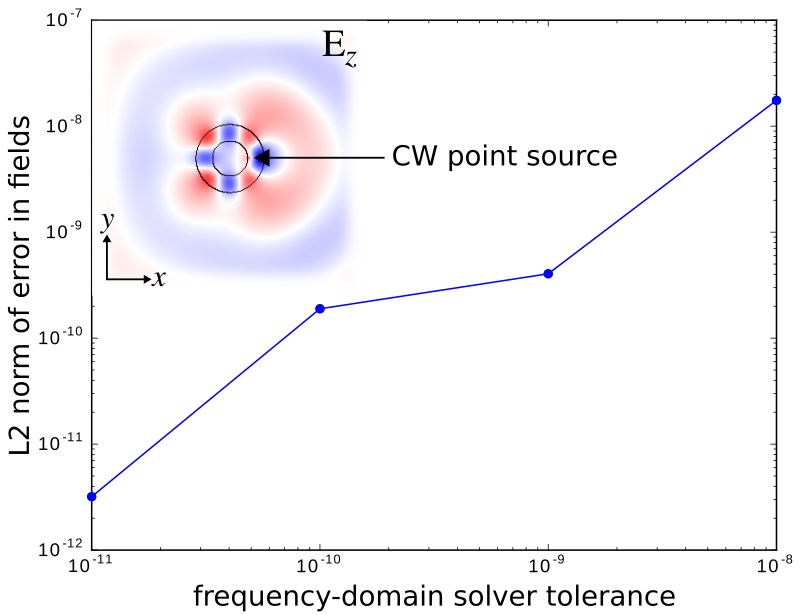
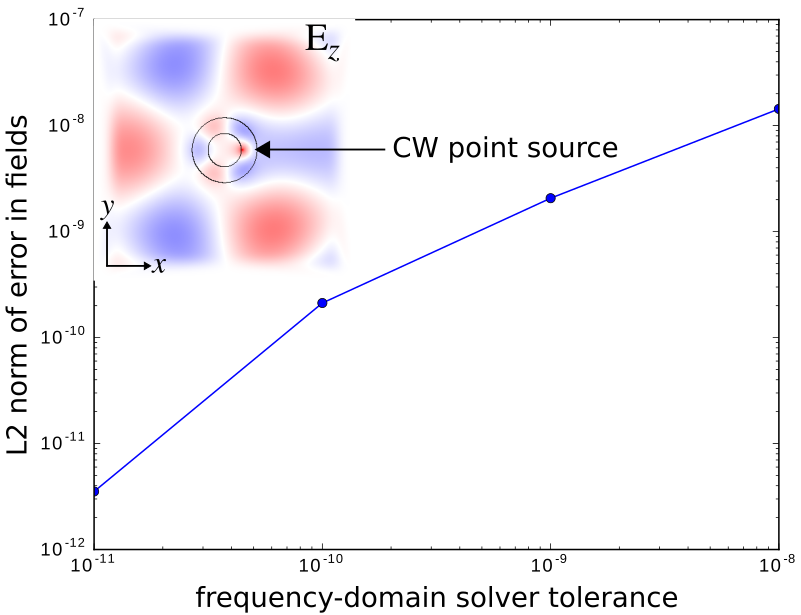
tweaks

diff --git a/python/examples/solve-cw.py b/python/examples/solve-cw.py
@@ -14,7 +14,7 @@ sxy = 2*(r+w+pad+dpml)
 c1 = mp.Cylinder(radius=r+w, material=mp.Medium(index=n))
 c2 = mp.Cylinder(radius=r)
 
-fcen = 0.15
+fcen = 0.118
 df = 0.08
 src = mp.Source(mp.ContinuousSource(fcen,fwidth=df), mp.Ez, mp.Vector3(r+0.1))
 
@@ -43,7 +43,8 @@ plt.figure()
 plt.loglog(tols[:num_tols-1], err_dat, 'bo-');
 plt.xlabel("frequency-domain solver tolerance");
 plt.ylabel("L2 norm of error in fields");
-plt.show()
+plt.savefig("CWsolver_error.eps");
+# plt.show()
 
 plt.figure()
 eps_data = sim.get_array(mp.Vector3(), mp.Vector3(sxy-2*dpml,sxy-2*dpml), mp.Dielectric)
@@ -52,7 +53,8 @@ plt.figure(dpi=100)
 plt.imshow(eps_data.transpose(), interpolation='spline36', cmap='binary')
 plt.imshow(ez_data.transpose(), interpolation='spline36', cmap='RdBu', alpha=0.9)
 plt.axis('off')
-plt.show()
+plt.savefig("CWsolver_fields2.png")
+# plt.show()
 
 if np.all(np.diff(err_dat) < 0):
     print("PASSED solve_cw test: error in the fields is decreasing with increasing resolution")

diff --git a/doc/docs/Scheme_Tutorials/Frequency_Domain_Solver.md b/doc/docs/Scheme_Tutorials/Frequency_Domain_Solver.md
@@ -2,13 +2,13 @@
 # Frequency Domain Solver
 ---
 
-This tutorial demonstrates Meep's [frequency-domain solver](../Scheme_User_Interface/#frequency-domain-solver) which is used to compute the fields produced in a geometry in response to a [constant-frequency source](https://en.wikipedia.org/wiki/Continuous_wave). For more details regarding what this feature is and how it works, refer to this [FAQ](../FAQ/#what-is-meeps-frequency-domain-solver-and-how-does-it-work). This example involves using the frequency-domain solver to compute the fundamental mode of a ring resonator which has been described in a [separate tutorial](Basics/#modes-of-a-ring-resonator). We will verify that the error in the computed fields decreases monotonically with decreasing tolerance of the iterative solver.
+This tutorial demonstrates Meep's [frequency-domain solver](../Scheme_User_Interface/#frequency-domain-solver) which is used to compute the fields produced in a geometry in response to a [constant-frequency source](https://en.wikipedia.org/wiki/Continuous_wave). For more details regarding what this feature is and how it works, refer to this [FAQ](../FAQ/#what-is-meeps-frequency-domain-solver-and-how-does-it-work). This example involves using the frequency-domain solver to compute the fields of a ring resonator which has been described in a [separate tutorial](Basics/#modes-of-a-ring-resonator). We will verify that the error in the computed fields decreases monotonically with decreasing tolerance of the iterative solver.
 
-Only two changes are necessary to the [original script](https://github.com/stevengj/meep/blob/master/scheme/examples/ring.ctl) which involved time-stepping the fields in response to a broadband source: (1) replace the Gaussian-pulse source with a [continuous-wave (CW) source](../Scheme_User_Interface/#source), and (2) turn on complex fields since, by default, real fields are used. Everything else remains unchanged.
+Only two changes are necessary to the [original simulation](https://github.com/stevengj/meep/blob/master/scheme/examples/ring.ctl) which involved time-stepping the fields in response to a broadband source: (1) replace the Gaussian-pulse source with a [continuous-wave (CW) source](../Scheme_User_Interface/#source), and (2) turn on complex fields since, by default, real fields are used. Everything else remains unchanged.
 
 Since the frequency-domain solver uses an [iterative method](https://en.wikipedia.org/wiki/Iterative_method), there are two things we can do to improve its convergence: (1) use a non-zero smoothing width (default is 0) for the CW source to reduce the high-frequency oscillations produced by its abrupt turn on (which have slow group velocities and are absorbed poorly by [PML](../Perfectly_Matched_Layer/)), and (2) increase the value of $L$ (default is 2) which is one of the parameters used in the [BiCGSTAB-L](https://en.wikipedia.org/wiki/Biconjugate_gradient_stabilized_method) iterative solver.
 
-We will use the frequency-domain solver to compute the fields at five different tolerance values on a logarithmic scale. We will plot the L2 norm of the difference of the fields at the first four tolerances with the fields at the lowest tolerance as a function of the tolerance. The simulation script and the resulting plot are shown below.
+We will use the frequency-domain solver to compute the fundamental mode at five different tolerance values on a logarithmic scale. We will plot the L2 norm of the difference of the fields at the first four tolerances with the fields at the lowest tolerance as a function of the tolerance. The simulation script and the resulting plot are shown below.
 
 ```scm
 (define-param n 3.4)
@@ -30,7 +30,7 @@ We will use the frequency-domain solver to compute the fields at five different 
 (set! pml-layers (list (make pml (thickness dpml))))
 (set-param! resolution 10)
 
-(define-param fcen 0.15)
+(define-param fcen 0.118)
 (define-param df 0.08)
 (set! sources (list
                (make source
@@ -54,7 +54,7 @@ We will use the frequency-domain solver to compute the fields at five different 
 (exit)
 ```
 
-The inset of the figure below shows the scalar E$_z$ field, computed using a tolerance of 10$^{-12}$, overlapping the ring-resonator geometry. The error in the fields decreases monotonically with decreasing tolerance of the frequency-domain solver.
+The inset of the figure below shows the scalar E$_z$ field (imaginary part), computed using a tolerance of 10$^{-12}$, overlapping the ring-resonator geometry. Note the three-fold mirror symmetry of the field pattern and presence of the point source. The error in the fields decreases monotonically with decreasing tolerance of the frequency-domain solver.
 
 <center>
 ![](../images/CWsolver-scheme.png)

diff --git a/doc/docs/Python_Tutorials/Frequency_Domain_Solver.md b/doc/docs/Python_Tutorials/Frequency_Domain_Solver.md
@@ -2,13 +2,13 @@
 # Frequency Domain Solver
 ---
 
-This tutorial demonstrates Meep's [frequency-domain solver](../Python_User_Interface/#frequency-domain-solver) which is used to compute the fields produced in a geometry in response to a [constant-frequency source](https://en.wikipedia.org/wiki/Continuous_wave). For more details regarding what this feature is and how it works, refer to this [FAQ](../FAQ/#what-is-meeps-frequency-domain-solver-and-how-does-it-work). This example involves using the frequency-domain solver to compute the fundamental mode of a ring resonator which has been described in a [separate tutorial](Basics/#modes-of-a-ring-resonator). We will verify that the error in the computed fields decreases monotonically with decreasing tolerance of the iterative solver.
+This tutorial demonstrates Meep's [frequency-domain solver](../Python_User_Interface/#frequency-domain-solver) which is used to compute the fields produced in a geometry in response to a [constant-frequency source](https://en.wikipedia.org/wiki/Continuous_wave). For more details regarding what this feature is and how it works, refer to this [FAQ](../FAQ/#what-is-meeps-frequency-domain-solver-and-how-does-it-work). This example involves using the frequency-domain solver to compute the fields of a ring resonator which has been described in a [separate tutorial](Basics/#modes-of-a-ring-resonator). We will verify that the error in the computed fields decreases monotonically with decreasing tolerance of the iterative solver.
 
-Only two changes are necessary to the [original script](https://github.com/stevengj/meep/blob/master/python/examples/ring.py) which involved time-stepping the fields in response to a broadband source: (1) replace the Gaussian-pulse source with a [continuous-wave (CW) source](../Python_User_Interface/#continuoussource), and (2) turn on complex fields since, by default, real fields are used. Everything else remains unchanged.
+Only two changes are necessary to the [original simulation](https://github.com/stevengj/meep/blob/master/python/examples/ring.py) which involved time-stepping the fields in response to a broadband source: (1) replace the Gaussian-pulse source with a [continuous-wave (CW) source](../Python_User_Interface/#continuoussource), and (2) turn on complex fields since, by default, real fields are used. Everything else remains unchanged.
 
 Since the frequency-domain solver uses an [iterative method](https://en.wikipedia.org/wiki/Iterative_method), there are two things we can do to improve its convergence: (1) use a non-zero smoothing width (default is 0) for the CW source to reduce the high-frequency oscillations produced by its abrupt turn on (which have slow group velocities and are absorbed poorly by [PML](../Perfectly_Matched_Layer/)), and (2) increase the value of $L$ (default is 2) which is one of the parameters used in the [BiCGSTAB-L](https://en.wikipedia.org/wiki/Biconjugate_gradient_stabilized_method) iterative solver.
 
-We will use the frequency-domain solver to compute the fields at five different tolerance values on a logarithmic scale. We will plot the L2 norm of the difference of the fields at the first four tolerances with the fields at the lowest tolerance as a function of the tolerance. The simulation script and the resulting plot are shown below.
+We will use the frequency-domain solver to compute the fundamental mode at five different tolerance values on a logarithmic scale. We will plot the L2 norm of the difference of the fields at the first four tolerances with the fields at the lowest tolerance as a function of the tolerance. The simulation script and the resulting plot are shown below.
 
 ```py
 import meep as mp
@@ -27,7 +27,7 @@ sxy = 2*(r+w+pad+dpml)
 c1 = mp.Cylinder(radius=r+w, material=mp.Medium(index=n))
 c2 = mp.Cylinder(radius=r)
 
-fcen = 0.15
+fcen = 0.118
 df = 0.08
 src = mp.Source(mp.ContinuousSource(fcen,fwidth=df), mp.Ez, mp.Vector3(r+0.1))
 
@@ -73,7 +73,7 @@ else:
     print("FAILED solve_cw test: error in the fields is NOT decreasing with increasing resolution")
 ```
 
-The inset of the figure below shows the scalar E$_z$ field, computed using a tolerance of 10$^{-12}$, overlapping the ring-resonator geometry. The error in the fields decreases monotonically with decreasing tolerance of the frequency-domain solver.
+The inset of the figure below shows the scalar E$_z$ field (imaginary part), computed using a tolerance of 10$^{-12}$, overlapping the ring-resonator geometry. Note the three-fold mirror symmetry of the field pattern and presence of the point source. The error in the fields decreases monotonically with decreasing tolerance of the frequency-domain solver.
 
 <center>
 ![](../images/CWsolver-python.png)

diff --git a/doc/docs/FAQ.md b/doc/docs/FAQ.md
@@ -110,7 +110,7 @@ A planewave incident at any angle can be generated by setting the amplitude func
 
 ### What is Meep's frequency-domain solver and how does it work? 
 
-Meep contains a [frequency-domain solver](Python_User_Interface/#frequency-domain-solver) that directly computes the fields produced in a geometry in response to a [constant-frequency source](https://en.wikipedia.org/wiki/Continuous_wave), using an [iterative linear solver](https://en.wikipedia.org/wiki/Iterative_method) instead of time-stepping. This is possible because the FDTD timestep can be used to directly plug a frequency-domain problem into an iterative linear solver, finding the frequency-domain response using many fewer timesteps while exploiting the FDTD code almost without modification. For details, see Section 5.3 ("Frequency-domain solver") of [Computer Physics Communications, Vol. 181, pp. 687-702, 2010](http://ab-initio.mit.edu/~oskooi/papers/Oskooi10.pdf).
+Meep contains a [frequency-domain solver](Python_User_Interface/#frequency-domain-solver) that directly computes the fields produced in a geometry in response to a [constant-frequency source](https://en.wikipedia.org/wiki/Continuous_wave), using an [iterative linear solver](https://en.wikipedia.org/wiki/Iterative_method) instead of time-stepping. This is possible because the FDTD timestep can be used to directly plug a frequency-domain problem into an iterative linear solver. The frequency-domain response can then be determined using many fewer timesteps while exploiting the FDTD code almost without modification. For details, see Section 5.3 ("Frequency-domain solver") of [Computer Physics Communications, Vol. 181, pp. 687-702, 2010](http://ab-initio.mit.edu/~oskooi/papers/Oskooi10.pdf).
 
 This means that all of the features from the time-domain solver (e.g., arbitrary materials, symmetries, subpixel averaging, parallelization, etc.) are also available as a frequency-domain solver. For certain problems, such as cavities (e.g., ring resonators) with long-lived resonant modes, the frequency-domain solver converges much faster than the straightforward approach of simply running a long simulation until transients have disappeared. Another benefit is that an arbitrary complex refractive index can be specified directly using the [electric conductivity](Materials/#conductivity-and-complex) without having to fit the data to a sum of [Lorentzian-Drude susceptibility terms](Materials/#material-dispersion).
 

diff --git a/doc/docs/index.md b/doc/docs/index.md
@@ -12,9 +12,9 @@
 -   **PML** absorbing boundaries and/or perfect conductor and/or **Bloch-periodic** boundary conditions.
 -   Exploitation of **symmetries** to reduce the computation size &mdash; even/odd mirror symmetries and 90°/180° rotations.
 -   Field output in the [HDF5](https://en.wikipedia.org/wiki/HDF5) standard scientific data format, supported by many visualization tools.
--   Arbitrary material and source distributions.
--   Frequency-domain solver.
--   Field analyses including flux spectra, Maxwell stress tensor, frequency extraction, local density of states, modal volume, arbitrary functions, near to far field transformations; completely programmable.
+-   Arbitrary current sources including a guided-mode launcher.
+-   Frequency-domain solver for finding the response to a continuous-wave source.
+-   Field analysis tools involving flux spectra, modal depcomposition, frequency extraction, local density of states, modal volume, Maxwell stress tensor, arbitrary functions, near to far field transformations; completely programmable.
 
 Time-Domain Simulation
 ----------------------

diff --git a/README.md b/README.md
@@ -15,9 +15,9 @@
 -   **PML** absorbing boundaries and/or perfect conductor and/or **Bloch-periodic** boundary conditions.
 -   Exploitation of **symmetries** to reduce the computation size — even/odd mirror symmetries and 90°/180° rotations.
 -   Field output in the [HDF5](https://en.wikipedia.org/wiki/HDF5) standard scientific data format, supported by many visualization tools.
--   Arbitrary material and source distributions.
--   Frequency-domain solver.
--   Field analyses including flux spectra, Maxwell stress tensor, frequency extraction, local density of states, modal volume, arbitrary functions, near to far field transformations; completely programmable.
+-   Arbitrary current sources including a guided-mode launcher.
+-   Frequency-domain solver for finding the response to a continuous-wave source.
+-   Field analysis tools involving flux spectra, modal decomposition, frequency extraction, local density of states, modal volume, Maxwell stress tensor, arbitrary functions, near to far field transformations; completely programmable.
 
 # Documentation
 
